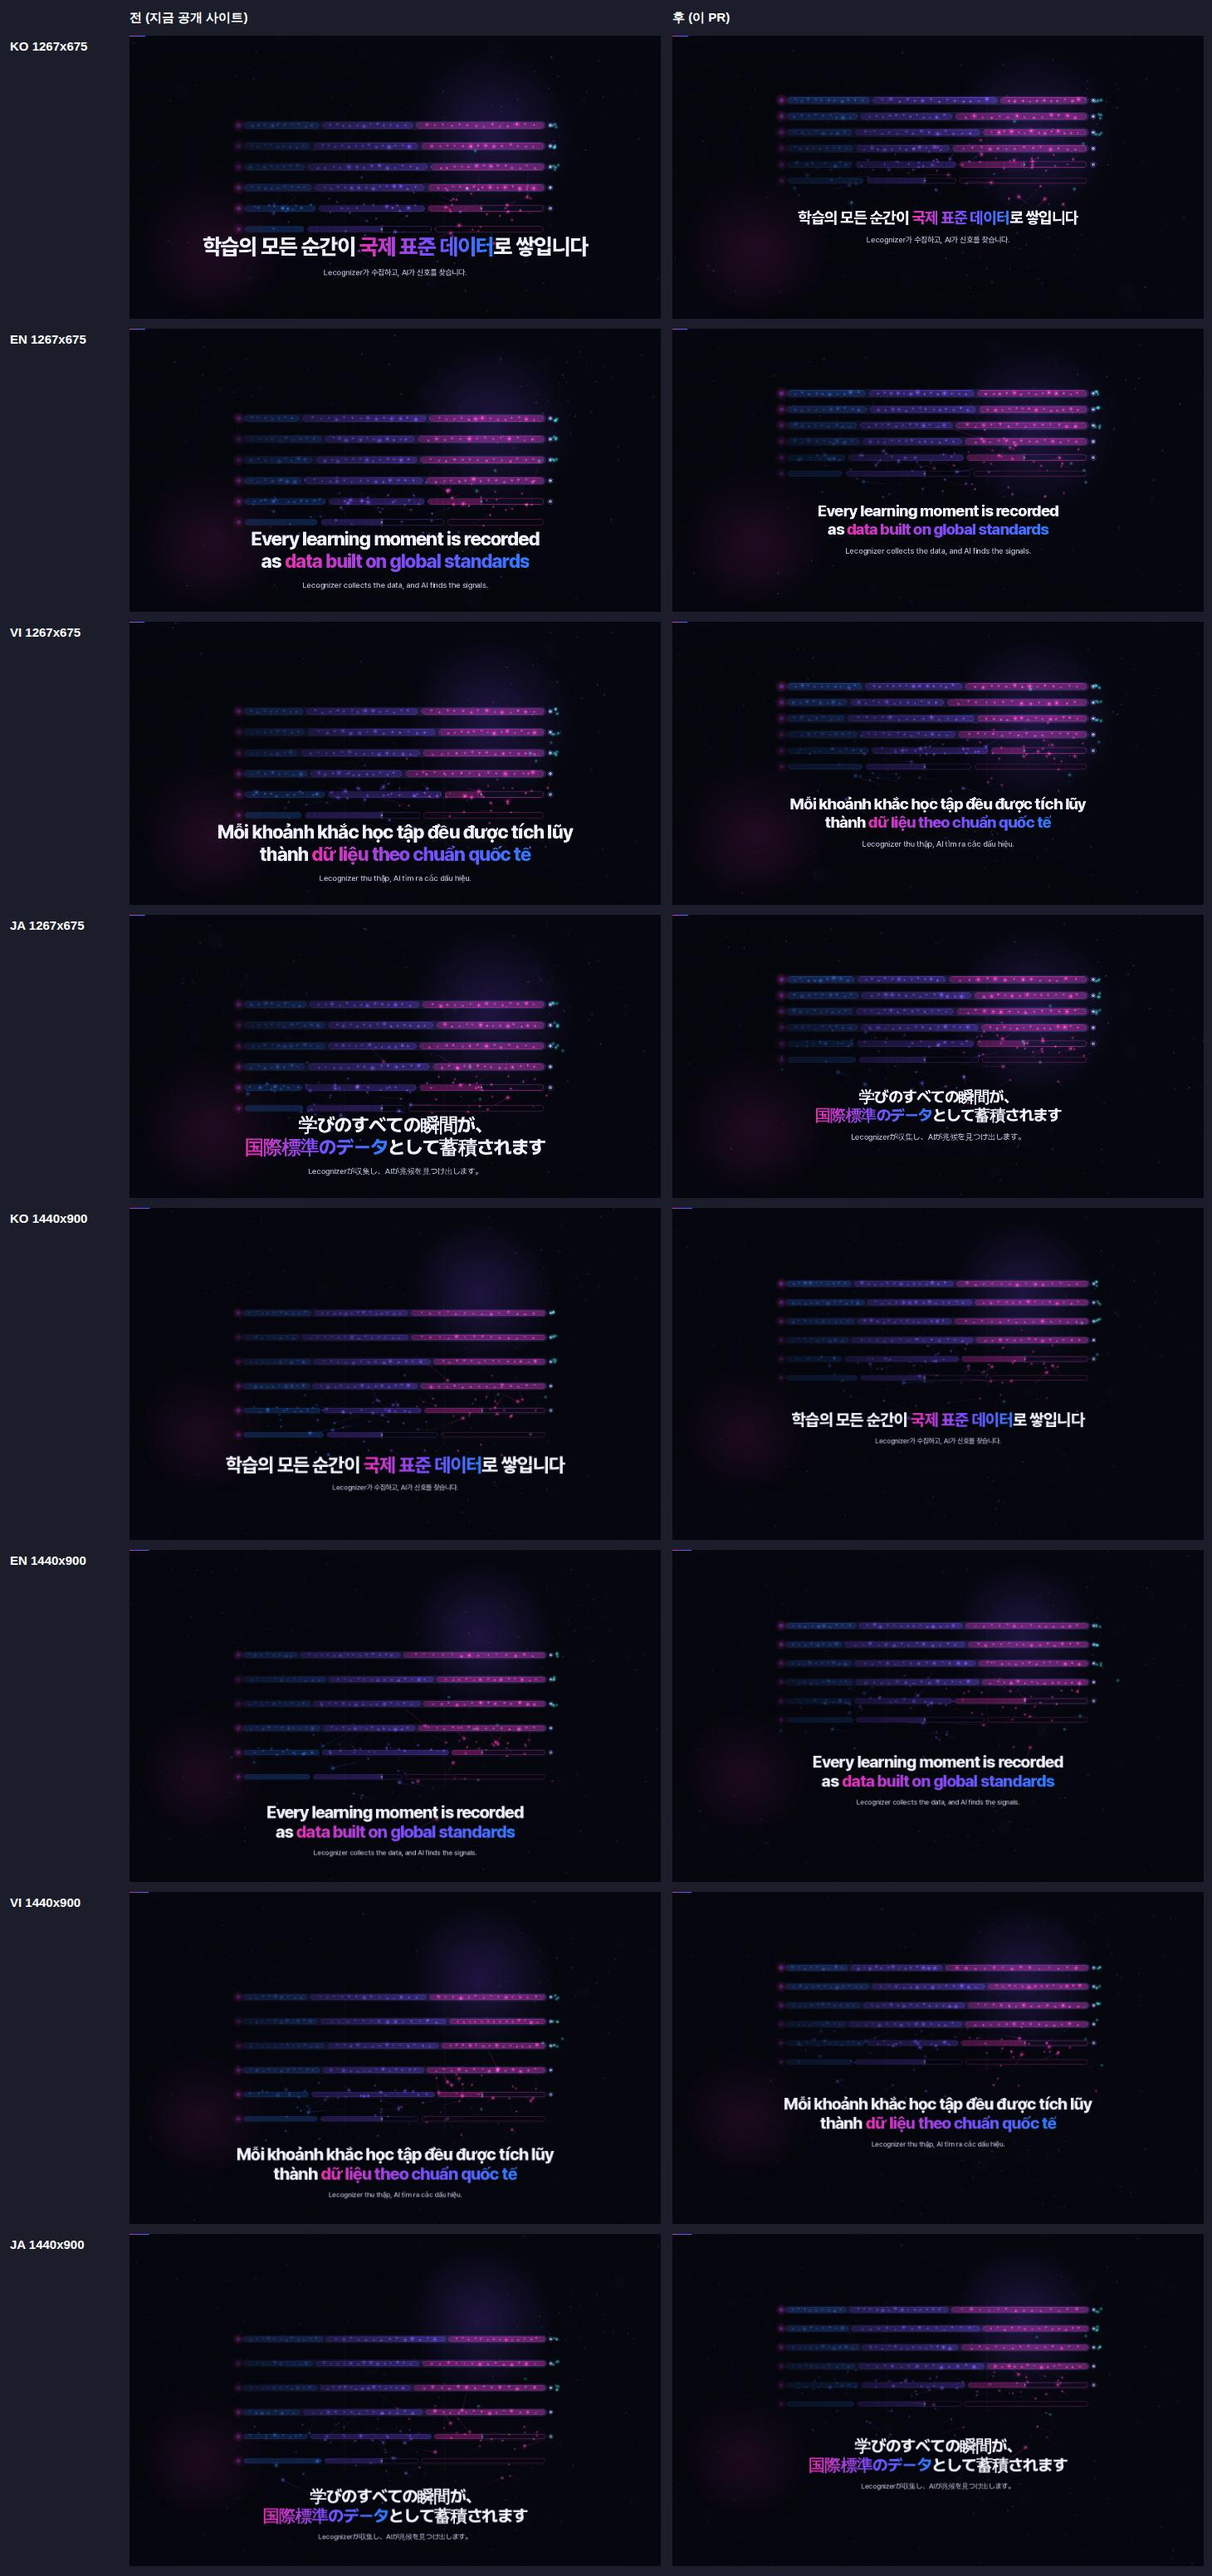
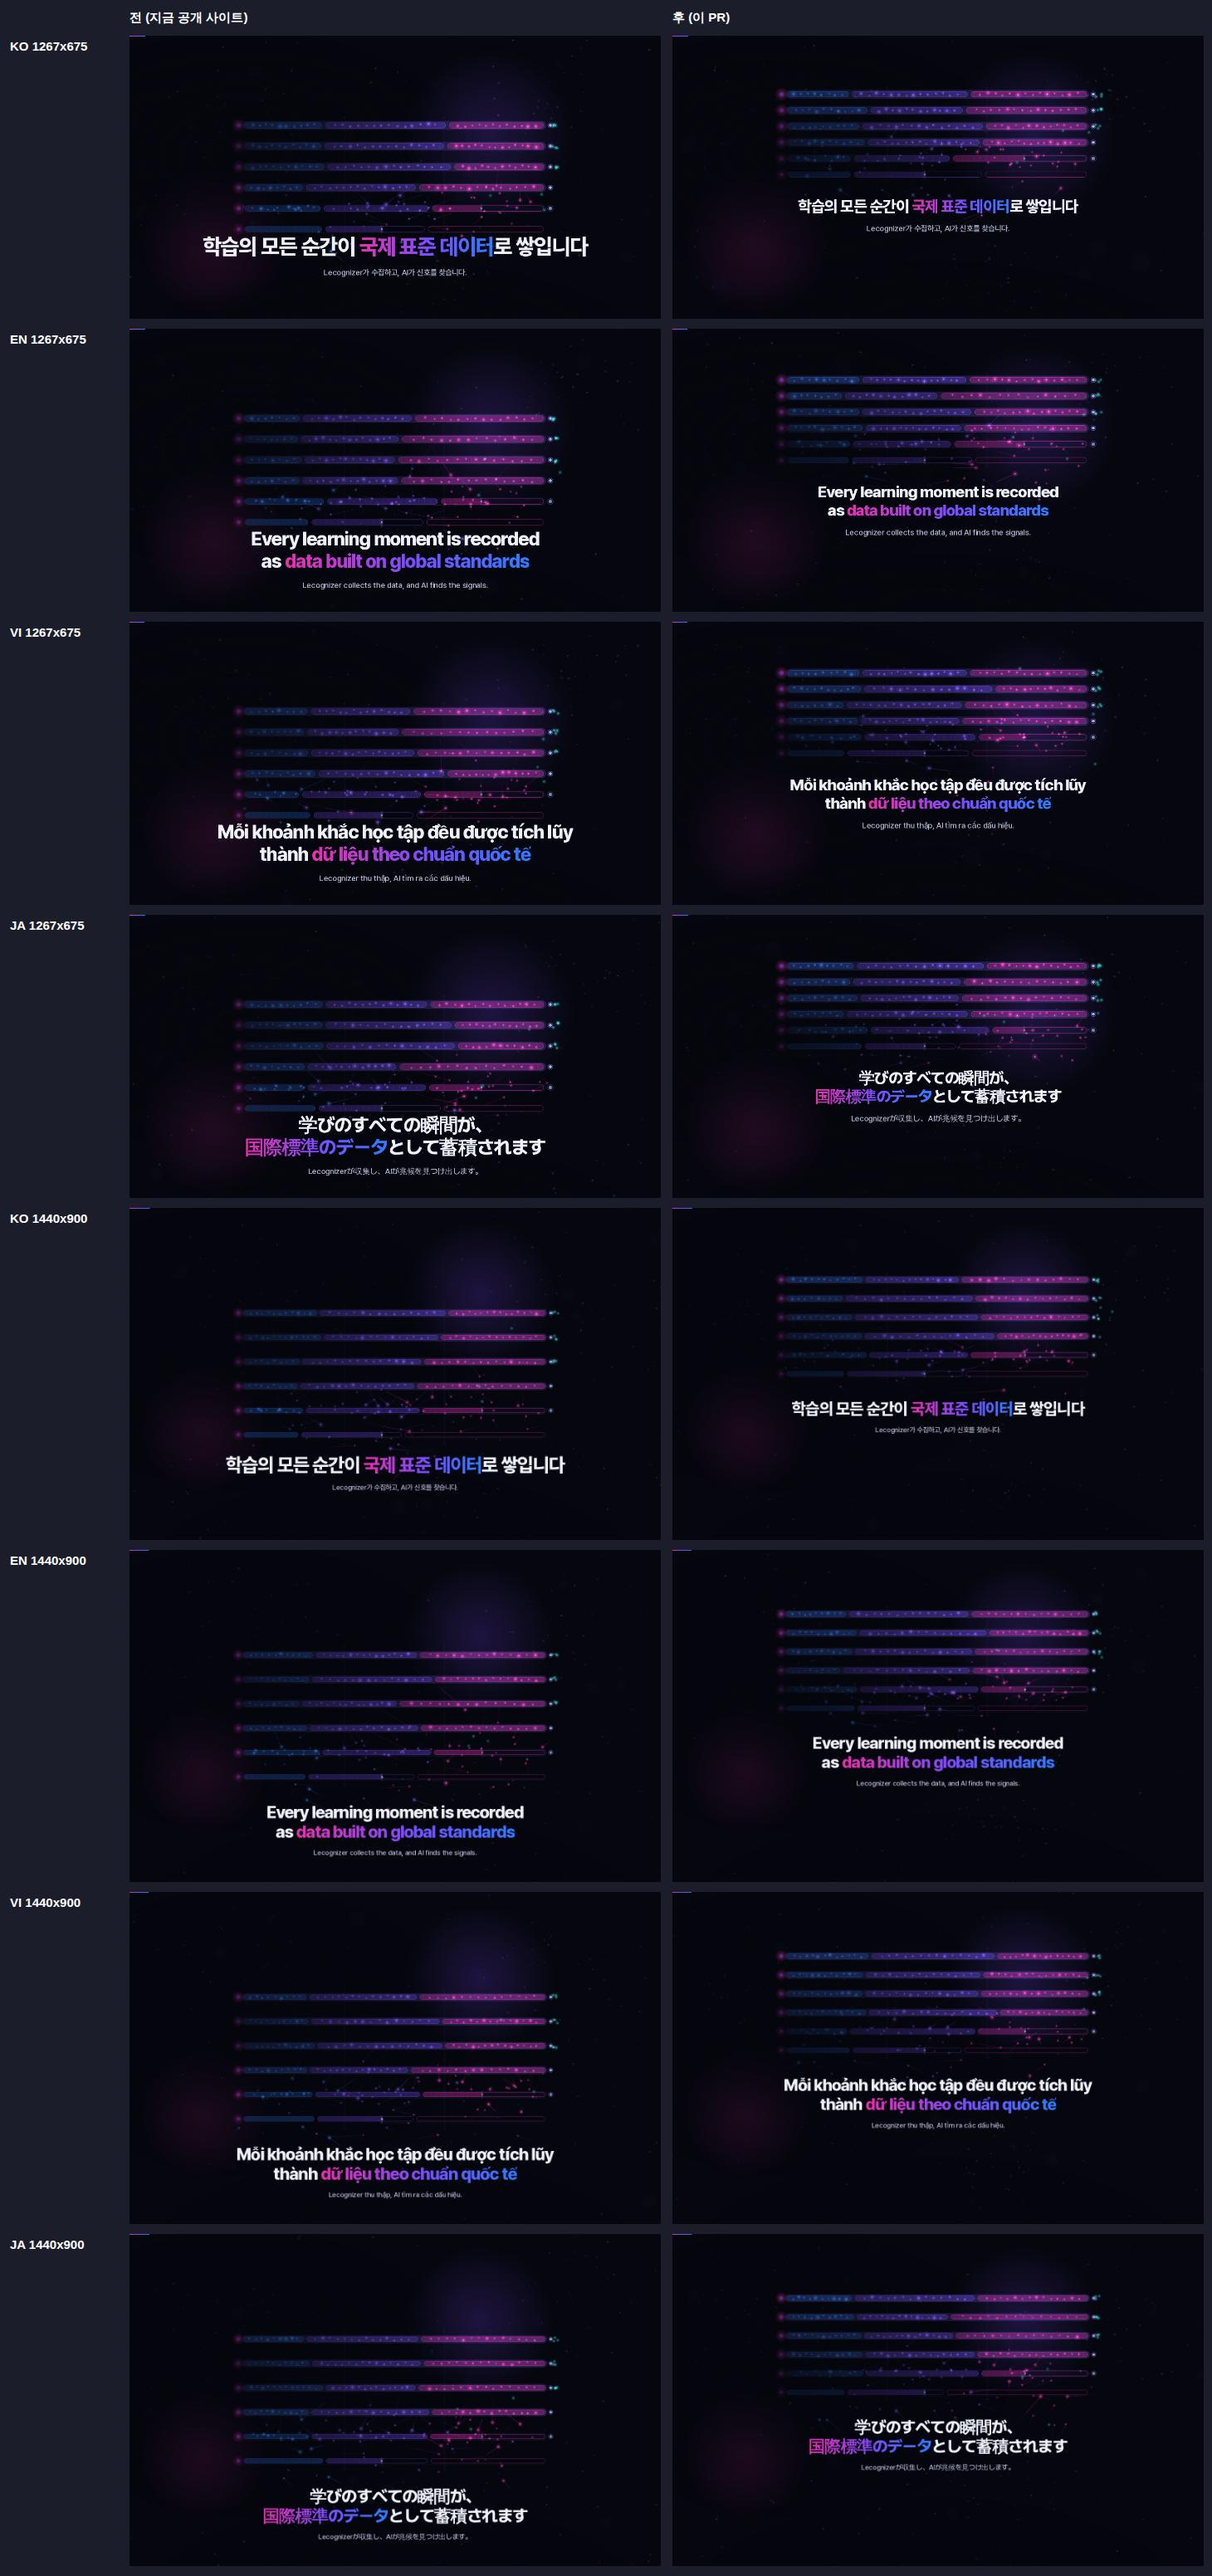
fix: 히어로 스크롤 장면 위 여백을 줄이고 네 언어를 같은 비율로 배치
막대(캔버스)와 캡션을 한 덩어리로 보고, 보이는 높이에서 남는 여백을 위 40 : 아래 60으로 나눈다.
캡션 높이는 언어마다 달라(국문 한 줄, 영·베·일 두 줄) main.js placeLedger가 실제 높이를 재서
막대 위치와 캡션 위치(--cap-top)를 함께 정한다. 글꼴이 늦게 들어오면 relayout으로 막대만 옮긴다.
높이 기준을 히어로 높이 대신 보이는 높이로 바꿔, 히어로가 창보다 긴 낮은 창에서도 캡션이 화면 안에 있다.
1440x900 위 여백: 공개 사이트 약 279px → 167(영·베·일)·188px(국문)

Claude-Session: https://claude.ai/code/session_015XJYhVJVXm3TWYePzsEWN2

diff --git a/js/main.js b/js/main.js
@@ -265,10 +265,32 @@
     });
     var W = 0, H = 0, DPR = 1, P = [], edges = [], rows = [], guides = [];
     var guideTop = 0, guideBot = 0, ledgerX0 = 0, ledgerX1 = 0, introId = null, headGrad = null;
+    var ledgerOy = 0, ledgerGap = 0, ledgerPillH = 0;                // 레저 세로 배치(relayout에서 다시 씀)
+    var overlay = doc.getElementById('heroOverlay');
     var MD = 150, ROWS = 6;
     var HEAD_R = 4.5;                                               // 패널 .xrow .dot의 9px와 동일
 
     function clamp01(v) { return v < 0 ? 0 : v > 1 ? 1 : v; }
+
+    // 핀 장면의 세로 배치: 레저(6행) + 간격 + 캡션(.hero-overlay)을 한 덩어리로 보고, 보이는 높이에서 남는
+    // 여백을 위 40 : 아래 60으로 나눈다(가운데보다 조금 위, 모든 언어가 같은 비율). 캡션은 언어마다 높이가
+    // 다르므로(국문 한 줄, 영·베·일 두 줄) 실제 높이를 잰다. 캡션 위치는 --cap-top으로 CSS에 넘긴다.
+    // 반환값은 레저 영역 위 끝(oy). 헤더(76px)가 다시 내려와도 첫 행을 덮지 않게 위 여백은 96px 이상(여유가 있을 때)
+    function placeLedger(rowGap, pillH) {
+      var vh = Math.min(H, win.innerHeight || H);
+      var gap = Math.max(40, Math.min(80, vh * .07));
+      var capH = 0;
+      try {
+        var mn = overlay && overlay.querySelector('.ho-main'), sb = overlay && overlay.querySelector('.ho-sub');
+        if (mn) capH = Math.max(0, (sb || mn).getBoundingClientRect().bottom - mn.getBoundingClientRect().top);
+      } catch (e) { capH = 0; }
+      var lh = rowGap * (ROWS - 1) + pillH;                          // 첫 필 위 끝 ~ 마지막 필 아래 끝
+      var free = Math.max(0, vh - (lh + gap + capH));
+      var top = Math.max(free * .4, Math.min(96, free * .5));
+      if (overlay) overlay.style.setProperty('--cap-top', Math.round(top + lh + gap) + 'px');
+      c.setAttribute('data-ledger', Math.round(top) + ',' + Math.round(top + lh));  // 점검용(scripts/qa)
+      return top - rowGap / 2 + pillH / 2;
+    }
 
     // 라운드 필(pill) 경로 (ctx.roundRect 미지원 브라우저 대비 arcTo 구현)
     function rr(x, y, w, h, rad) {
@@ -289,11 +311,13 @@
       c.width = Math.round(W * DPR); c.height = Math.round(H * DPR);
       ctx.setTransform(DPR, 0, 0, DPR, 0, 0);
 
-      // 기록 레저 영역: 가로 60% 가운데, 세로 20~54%. 캡션(.hero-overlay)은 그 아래 일정한 간격에서 시작해
-      // 두 줄 캡션이나 낮은 창에서도 막대와 겹치지 않는다(css/style.css .hero-overlay와 짝)
-      var gw = W * 0.60, gh = H * 0.34, ox = (W - gw) / 2, oy = H * 0.20;
+      // 기록 레저 영역: 가로 60% 가운데, 세로 높이는 보이는 높이의 34%. 세로 위치는 캡션과 한 덩어리로(placeLedger)
+      var vh = Math.min(H, win.innerHeight || H);
+      var gw = W * 0.60, gh = vh * 0.34, ox = (W - gw) / 2;
       var rowGap = gh / ROWS, GAP = 9;
       var pillH = Math.max(7, Math.min(rowGap * 0.5, 13));
+      var oy = placeLedger(rowGap, pillH);
+      ledgerOy = oy; ledgerGap = rowGap; ledgerPillH = pillH;
       var px0 = ox + 22, px1 = ox + gw - 26;                        // 필 영역(오른쪽 끝은 신호 도트 여백)
       rows = [];
       for (var i = 0; i < ROWS; i++) {
@@ -684,6 +708,18 @@
 
     return {
       build: build,
+      // 글꼴이 늦게 들어와 캡션 줄 수·높이가 바뀌면 레저만 세로로 옮긴다(파티클을 다시 만들지 않아 인트로가 끊기지 않는다)
+      relayout: function () {
+        if (!W || !rows.length) return;
+        var dy = placeLedger(ledgerGap, ledgerPillH) - ledgerOy;
+        if (Math.abs(dy) < .5) return;
+        ledgerOy += dy; guideTop += dy; guideBot += dy;
+        for (var i = 0; i < rows.length; i++) rows[i].y += dy;
+        for (var j = 0; j < P.length; j++) {
+          var q = P[j];
+          if (q.role > 0) { q.by += dy; q.ry += dy; q.cpy += dy / 2; }
+        }
+      },
       staticA: function () { setPos(0); ctx.clearRect(0, 0, W, H); drawLines(1); drawParticles(0); },
       intro: function () {                                          // bounded ≤ 2.4s(SPEC §0-2 ≤2.5s), 1회
         win.cancelAnimationFrame(introId);
@@ -740,6 +776,9 @@
     canvas.build();
     canvas.staticA();
     if (!REDUCE) canvas.intro();
+    try {
+      if (doc.fonts && doc.fonts.ready) doc.fonts.ready.then(function () { try { canvas.relayout(); } catch (e) {} });
+    } catch (e) {}
   }
 
   /* ============================================================

diff --git a/css/style.css b/css/style.css
@@ -258,10 +258,10 @@ nav.main .cta:hover{color:#fff}
 .hero-copy{position:relative;z-index:2}
 
 /* 히어로 카피/캡처를 개별 제어하기 위한 래퍼 */
-/* 핀-스크럽 장면 배치: 캔버스의 기록 막대는 화면 높이 20~54%(main.js build), 캡션은 막대 바로 아래 일정한 간격(7vh)에서 시작한다.
-   막대와 캡션이 한 덩어리로 화면 가운데보다 조금 위에 놓이고, 두 줄 캡션·낮은 창에서도 막대에 닿지 않는다.
-   캡션 글자는 폭(3.1vw)과 높이(5.6vh) 중 작은 쪽을 따라 막대 폭(화면 폭 60%)보다 넓어지지 않는다 */
-.hero-overlay{position:absolute;inset:calc(54% + clamp(40px,7vh,80px)) 0 0;z-index:5;display:flex;flex-direction:column;
+/* 핀-스크럽 장면 배치: 기록 막대(캔버스)와 캡션을 한 덩어리로 보고, 남는 여백을 위 40 : 아래 60으로 나눈다.
+   캡션 높이는 언어마다 달라 main.js(placeLedger)가 재서 캡션 위치를 --cap-top으로 준다(막대 아래 7vh 간격).
+   JS가 없을 때의 값은 막대 20~54% 기준. 캡션 글자는 폭(3.1vw)과 높이(5.6vh) 중 작은 쪽을 따라 막대 폭(화면 폭 60%)보다 넓어지지 않는다 */
+.hero-overlay{position:absolute;inset:var(--cap-top,calc(54% + clamp(40px,7vh,80px))) 0 0;z-index:5;display:flex;flex-direction:column;
   align-items:center;justify-content:flex-start;text-align:center;padding:0 24px;opacity:0;pointer-events:none}
 .hero-overlay .ho-main{font-size:clamp(26px,min(3.1vw,5.6vh),46px);font-weight:800;letter-spacing:-.04em;line-height:1.16}
 .hero-overlay .ho-sub{margin-top:16px;color:#b3b8d4;font-size:clamp(15px,1.7vw,19px);font-weight:500}
